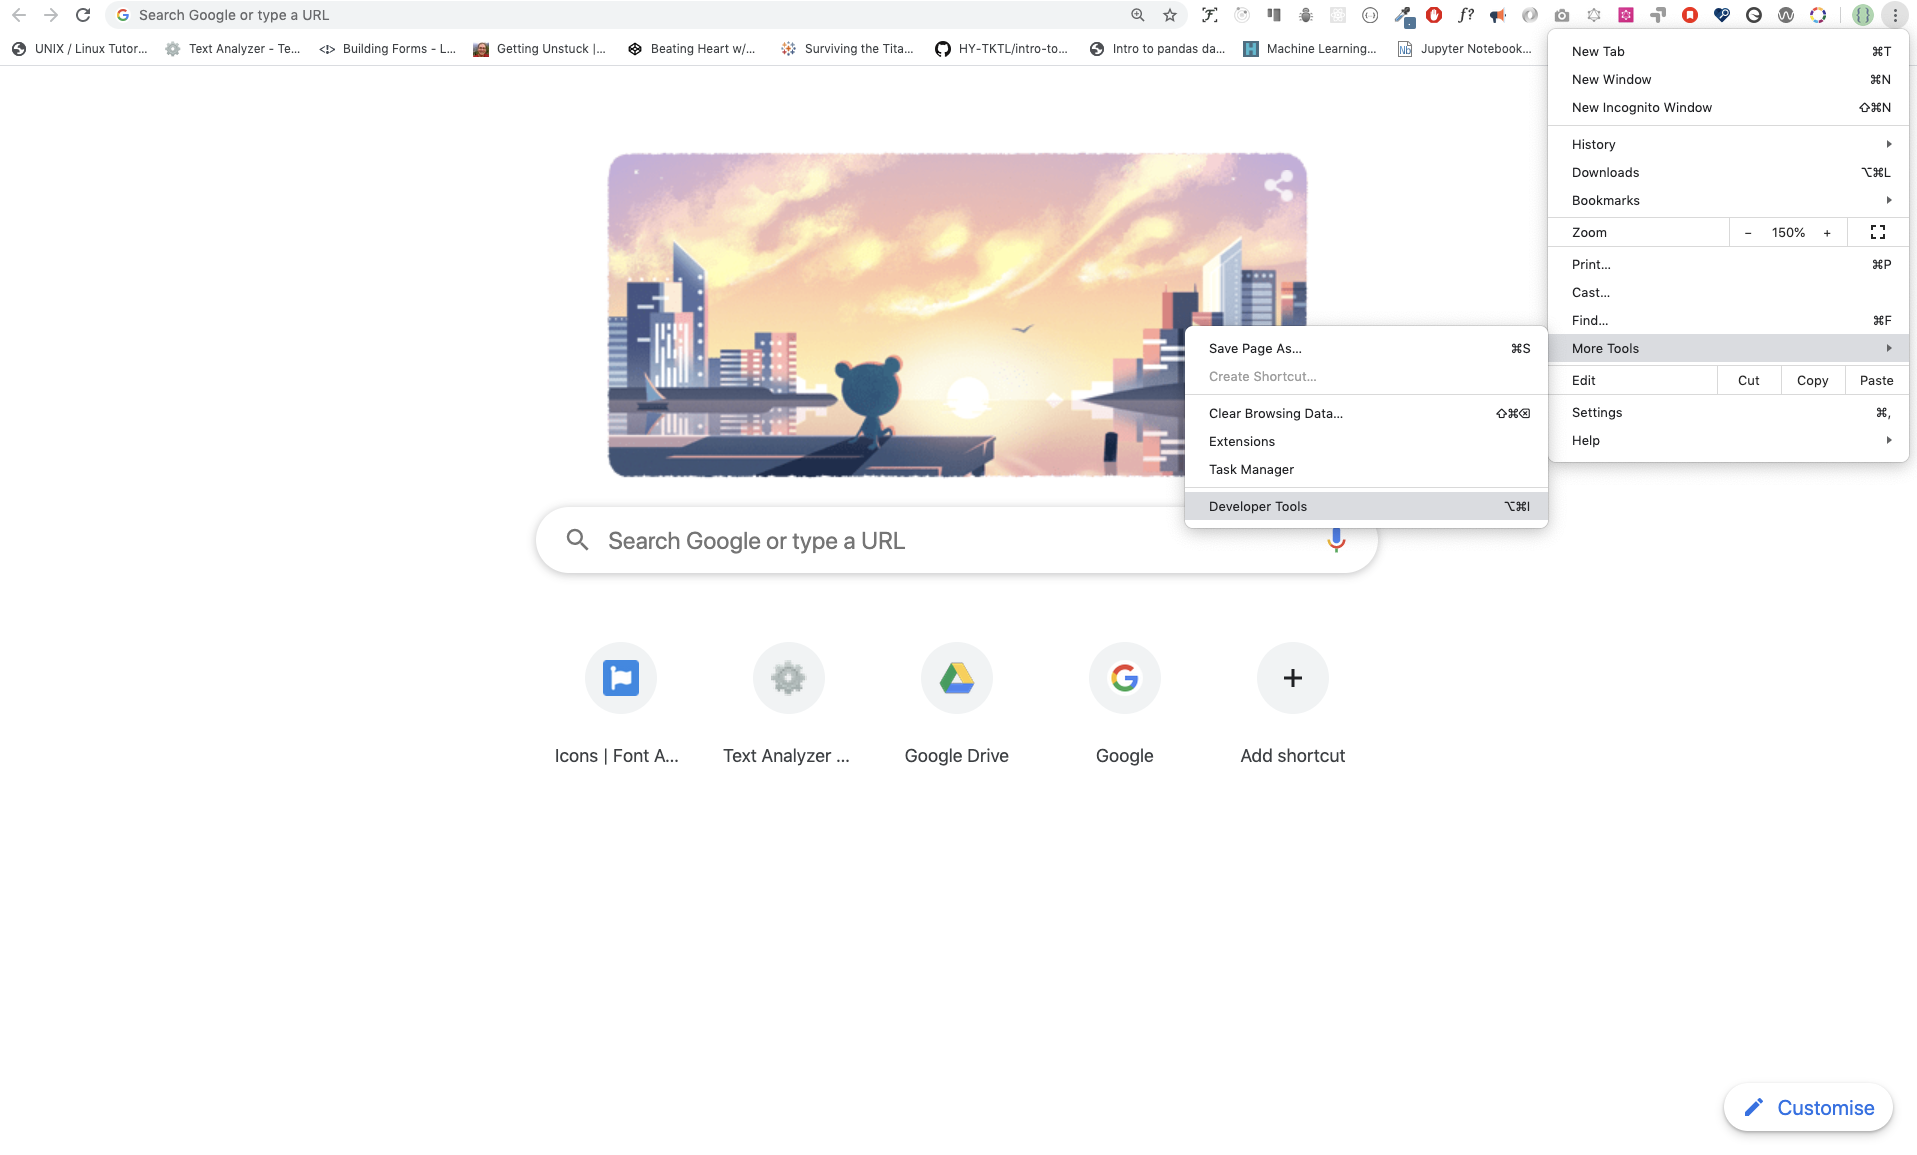
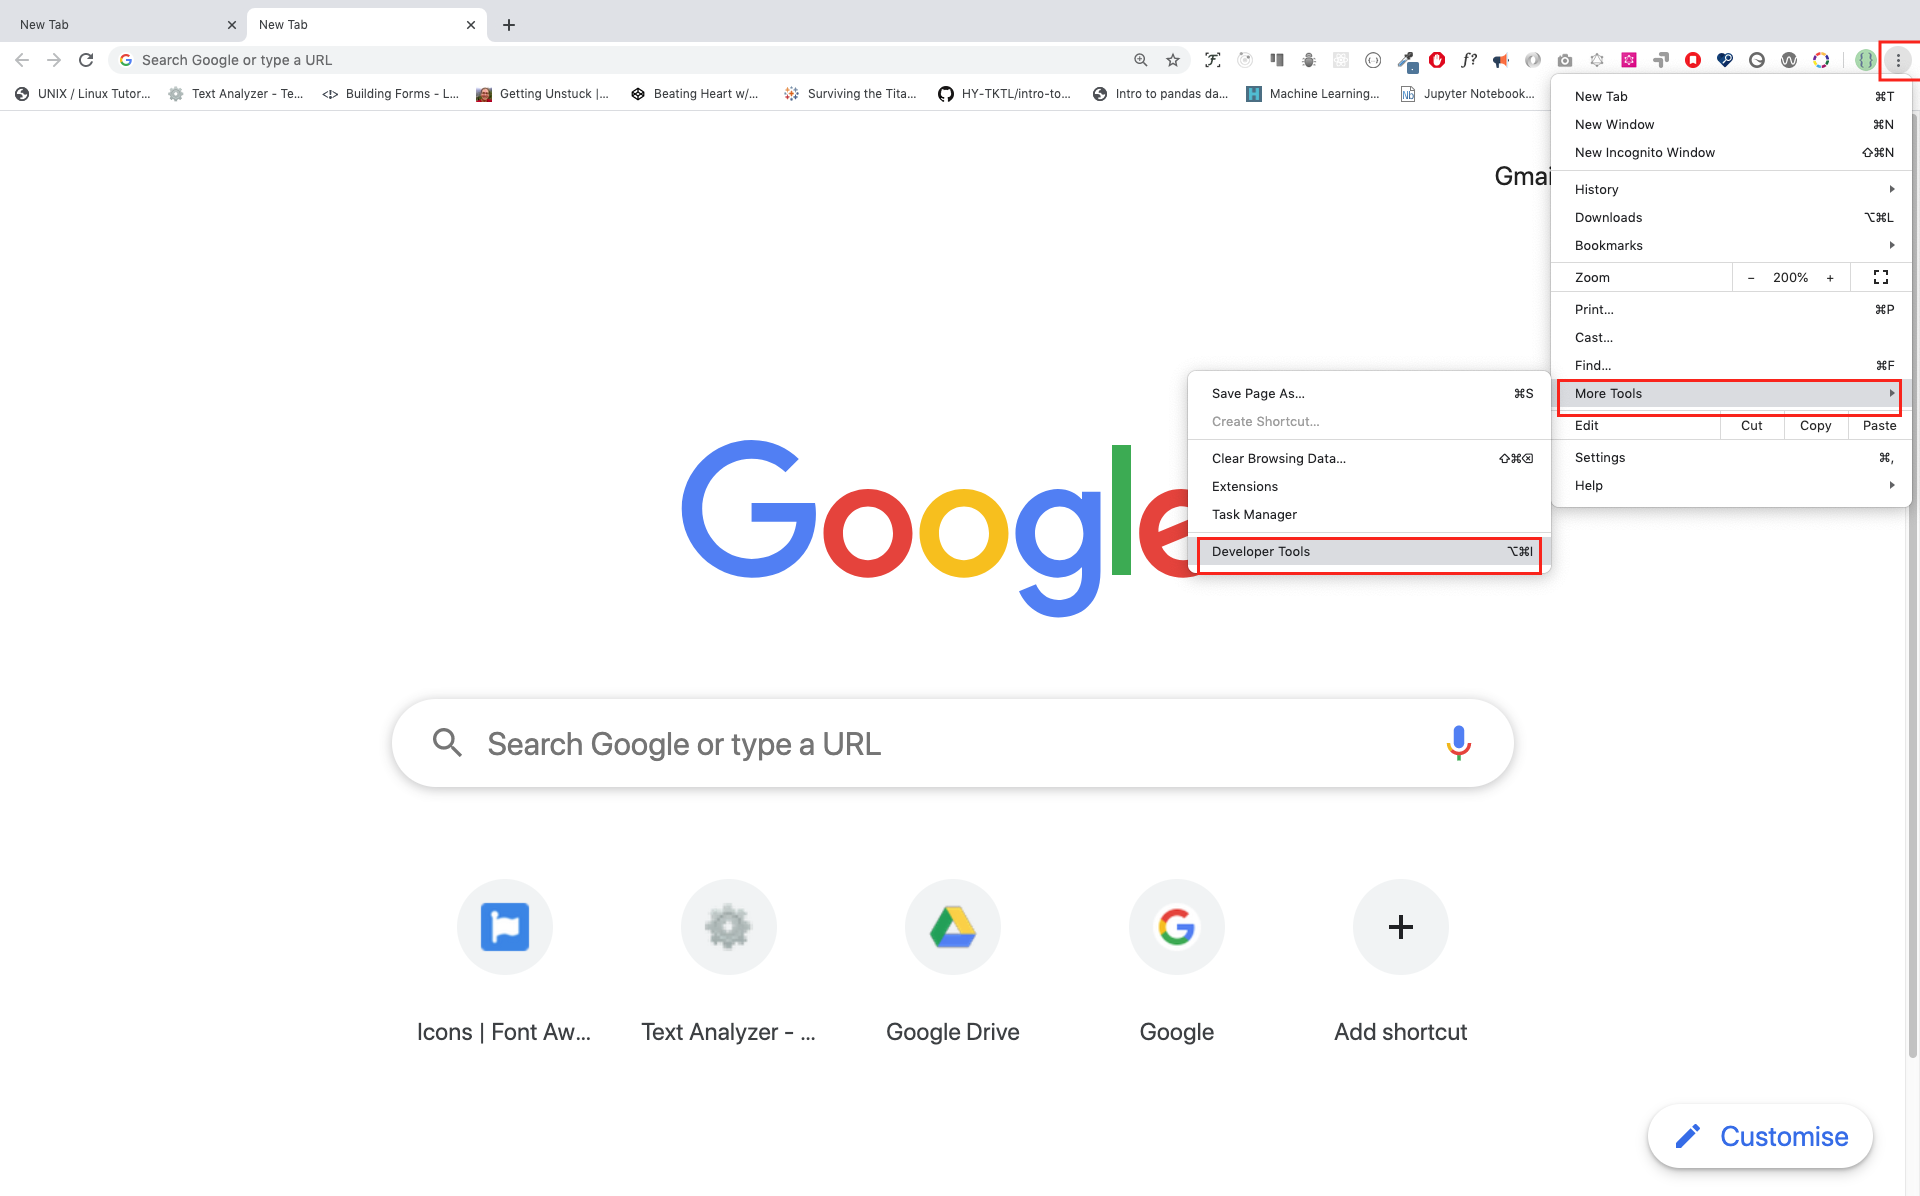
some fixes

diff --git a/readMe.md b/readMe.md
@@ -40,7 +40,7 @@
 # Introduction
 **Congratulations** for deciding to participate in a 30 days of JavaScript programming challenge . In this challenge you will learn everything you need to be a JavaScript programmer and in general the whole concepts of programming. In the end of the challenge you will get a 30DaysOfJavaScript programming challenge certificate. Join the [telegram group](https://t.me/ThirtyDaysOfJavaScript).
 
-**A 30DaysOfJavaScript** is a guide for both beginners and advanced JavaScript developers. Welcome to JavaScript. JavaScript is the language of the browser.
+**A 30DaysOfJavaScript** challenge is a guide for both beginners and advanced JavaScript developers. Welcome to JavaScript. I enjoy using and teaching JavaScript and I hope you will do so. JavaScript is the language of the browser.
 
 In this step by step tutorial, you will learn JavaScript, the most popular programming language in the history of mankind.
 You use JavaScript **_to add interactivity to websites, to develop mobile apps, desktop applications, games_** and nowadays JavaScript can be used for **_machine learning_** and **_AI_**.
@@ -56,7 +56,7 @@ No prior knowledge of programming is required to follow this challenge. You need
 5. Code Editor
 
 # Setup
-I believe you have the motivation, computer and internet. 
+I believe you have the motivation and a strong desire to be a developer, computer and internet. If you have those you have everything. 
 
 ## Install Node.js
 You may not need it right now but you may need it for later. Install [node.js](https://nodejs.org/en/).
@@ -67,7 +67,7 @@ After downloading double click and install
 
  ![Install node](images/install_node.png)
 
-We can check if node is installed in our machine by opening our device terminal or command  prompt.
+We can check if node is installed in our local machine by opening our device terminal or command  prompt.
 
 ```sh
 asabeneh $ node -v
@@ -78,9 +78,12 @@ I am using node version 12.14.0 which is the recommended version of node.
 ## Browser
 There are many browsers out there but I strongly recommend Google Chrome.
 ### Installing Google Chrome
-Install [google chrome](https://www.google.com/chrome/) if you do not have one yet. We can write small JavaScript code on the browser console but we can not use the browser console to develop applications.
+Install [google chrome](https://www.google.com/chrome/) if you do not have one yet. We can write small JavaScript code on the browser console but we do not use the browser console to develop applications.
+
+![Google Chrome](images/google_chrome.png)
+
 ### Opening Google Chrome Console
-You can open the google chrome either by clicking three dots at the top right corner of chrome or using short cut. I prefer short cuts.
+You can open the google chrome either by clicking three dots at the top right corner of chrome browser or using a shortcut. I prefer using shortcuts.
 ![Opening chrome](images/opening_developer_tool.png)
 
 
@@ -109,7 +112,7 @@ Windows:
 Ctl+Shift+I
 ```
 #### Console.log
-To write our first JavaScript code we used a builtin function **console.log()**. We passed an argument as an input data and the function display the output. We passed 'Hello, World' as input data or argument in the condole.log() function.
+To write our first JavaScript code we used a builtin function **console.log()**. We passed an argument as an input data and the function display the output. We passed 'Hello, World' as input data or argument in the console.log() function.
 ```js
 console.log('Hello, World!')
 ```
@@ -256,7 +259,7 @@ This is how we write internal script most of the time. Writing the JavaScript co
   </html>
 ```
 Open the browser console to see the out put from the console.log()
-![js code from vscode](./imas/js_code_ve)
+![js code from vscode](./images/js_code_vscode.png)
 
 ## External script
 Similar to the internal script, the external script link can be on the header or body but it is preferred to put it in the body.
@@ -295,7 +298,7 @@ External Script in the body
 Open the browser console to see the out put from the console.log()
 ## Multiple External scripts
 We can link multiple external JavaScript files to a web page.
-Create  helloword.js file inside 30DaysOfJS folder and write the following code
+Create  helloworld.js file inside 30DaysOfJS folder and write the following code
 ```js
 console.log('Hello, World!')
 ```
@@ -312,7 +315,7 @@ console.log('Hello, World!')
     </body
     </html
 ```
-You main.js file should be below all other scripts. Watch out your exercise needs to understand this line.
+Your main.js file should be below all other scripts. Watch out your exercise needs to understand this line.
 ![Multiple Script](./images/multiple_script.png)
 
 # Introduction to Data types
@@ -347,7 +350,7 @@ A boolean data type is either a True or False value.
 **Example:**
 
 ```js
-    true  #  if the light on ,the value is true
+    true  # if the light on ,the value is true
     false # if the light off, the value is False
 ```
 
@@ -364,7 +367,7 @@ Null in JavaScript means an empty value.
 
 ## Checking Data types
 
-To check the data type of a certain data type we use the **typeOf** operator. See the following example.
+To check the data type of a certain data type we use the **typeof** operator. See the following example.
 ```js
 console.log(typeof 'Asabeneh') // string
 console.log(typeof 5)          // number
@@ -395,13 +398,13 @@ Multiline commenting:
 ```
 
 # Variables
-Variables are _containers_ of data. Variables _store_ data in a memory location. When a variable is declared a memory location is reserved and when it is assigned to a value, the memory space will be filled with that data. To declare a variable we use, _var_, _let_ or _const_ key words. I will talk about var, let and const in detail in other section(scope). For now, the above explanation is enough.
+Variables are _containers_ of data. Variables _store_ data in a memory location. When a variable is declared a memory location is reserved and when it is assigned to a value, the memory space will be filled with that data. To declare a variable we use, _var_, _let_ or _const_ keywords. I will talk about var, let and const in detail in other section(scope). For now, the above explanation is enough.
 
 For a variable which changes at different time we use _let_ but if the data doesn't change at all we use _const_. For example PI, country name, gravity do no change and we can use *const*.
 
 A JavaScript variable name  shouldn't begin with a number
 A JavaScript variable name does not allow special characters except dollar sign and underscore. 
-A JavaScript variable name follow a camelCase convention.
+A JavaScript variable name follows a camelCase convention.
 A JavaScript variable name shouldn't have space between words. The following are valid examples of JavaScript variables.
 
 Valid variables in JavaScript:
@@ -423,8 +426,8 @@ Valid variables in JavaScript:
     num_1
     _num_1
     $num1
-    year2019
-    year_2019
+    year2020
+    year_2020
 ```
 Camel case or the first way of declaring is conventional in JavaScript. In this material, camelCase variables will be used.
 
@@ -456,7 +459,7 @@ let name = 'Asabeneh', //name of a person
 console.log(name, job, live);
 ```
 When you run the files on 01-Day folder you should get this:
-![Day one](./images/day-1.png)
+![Day one](./images/day_1.png)
 
 
 # 💻 Day 1: Exercises
